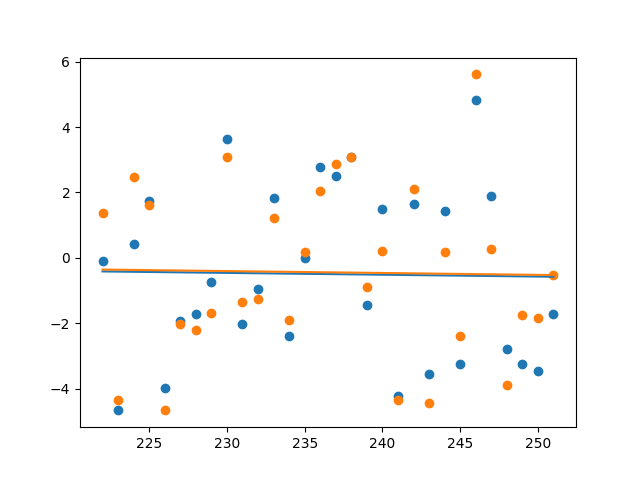
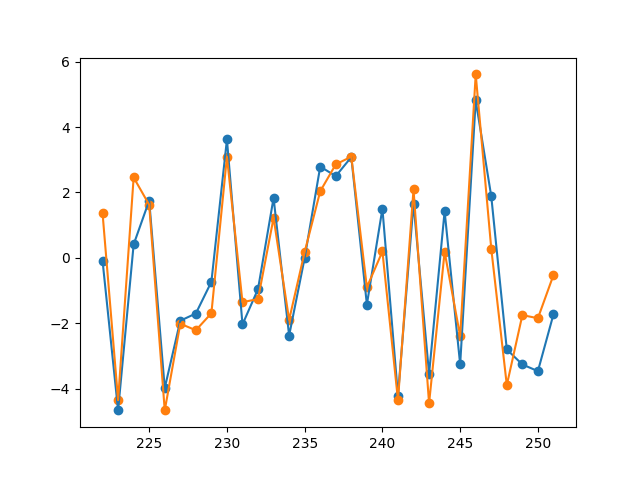
stat arb

Changed region(s): [[0.1562, 0.1562, 0.875, 0.8438]]

diff --git a/Backend/Stat-Arb.py b/Backend/Stat-Arb.py
@@ -30,7 +30,6 @@ GM_model = list(map(GM_linear, x[-days:]))
 
 plt.scatter(x[-days:], Ford_PercentChange[-days:])
 plt.scatter(x[-days:], GM_PercentChange[-days:])
-plt.plot(x[-days:], Ford_model)
-plt.plot(x[-days:], GM_model)
-
+plt.plot(x[-days:], Ford_PercentChange[-days:])
+plt.plot(x[-days:], GM_PercentChange[-days:])
 plt.savefig("percentChange.png")
